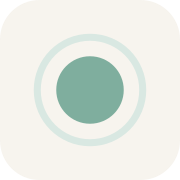
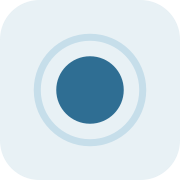
Re-skin to the calm ocean palette
- Replace warm sea-glass theme with deep, restful ocean blues; avoid
  vivid/tropical tones
- Update design tokens (bg, surface, ink, accent, accent-soft, sand) and
  add a deep token for prominent/safety actions
- Recolour the breathing orb to soft blues/teals (no neon)
- "I need to breathe" / destructive buttons use deep ocean for prominence
- Update PWA theme/background colours, favicon, and placeholder icons

https://claude.ai/code/session_011jvadMerUasgwyJpMx6raw

Changed region(s): [[0.3056, 0.3056, 0.6944, 0.6944]]

diff --git a/src/components/BreathingCircle.tsx b/src/components/BreathingCircle.tsx
@@ -36,14 +36,15 @@ const STROKE = 3;
 const RADIUS = (SIZE - STROKE) / 2;
 const CIRCUMFERENCE = 2 * Math.PI * RADIUS;
 
+// Calm ocean iridescence — soft, desaturated blues and teals (no neon/tropical).
 const HOLO_CONIC =
-  'conic-gradient(from 0deg at 50% 50%, #8be0e6, #7cc0f7, #b9a7f0, #f4a9da, #f7efaa, #9ef0c4, #8be0e6)';
+  'conic-gradient(from 0deg at 50% 50%, #9ed2e6, #7ec8e3, #5fb2c4, #5f93b8, #8bb3d0, #b9d7e6, #9ed2e6)';
 
 const HOLO_BLOBS =
-  'radial-gradient(42% 42% at 28% 30%, #f4a9da 0%, transparent 70%),' +
-  'radial-gradient(46% 46% at 72% 34%, #7cc0f7 0%, transparent 70%),' +
-  'radial-gradient(46% 46% at 56% 78%, #9ef0c4 0%, transparent 70%),' +
-  'radial-gradient(40% 40% at 34% 70%, #b9a7f0 0%, transparent 70%)';
+  'radial-gradient(42% 42% at 28% 30%, #7ec8e3 0%, transparent 70%),' +
+  'radial-gradient(46% 46% at 72% 34%, #5f93b8 0%, transparent 70%),' +
+  'radial-gradient(46% 46% at 56% 78%, #79c4cf 0%, transparent 70%),' +
+  'radial-gradient(40% 40% at 34% 70%, #9fb9d4 0%, transparent 70%)';
 
 export function BreathingCircle({
   phase,
@@ -88,7 +89,7 @@ export function BreathingCircle({
             width: SIZE,
             height: SIZE,
             background:
-              'radial-gradient(circle, rgba(140,220,225,0.55) 0%, rgba(180,170,240,0.28) 45%, rgba(180,170,240,0) 70%)',
+              'radial-gradient(circle, rgba(126,200,227,0.5) 0%, rgba(95,147,184,0.24) 45%, rgba(95,147,184,0) 70%)',
             filter: 'blur(28px)',
           }}
         />
@@ -100,7 +101,7 @@ export function BreathingCircle({
             width: ORB,
             height: ORB,
             boxShadow:
-              'inset 0 0 26px 6px rgba(255,255,255,0.55), inset 0 -12px 34px rgba(120,160,200,0.22), 0 26px 60px -18px rgba(120,150,170,0.55)',
+              'inset 0 0 26px 6px rgba(255,255,255,0.55), inset 0 -12px 34px rgba(70,110,150,0.22), 0 26px 60px -18px rgba(60,100,140,0.5)',
           }}
         >
           {/* Slowly swirling holographic gradient */}
@@ -141,7 +142,7 @@ export function BreathingCircle({
           cy={SIZE / 2}
           r={RADIUS}
           fill="none"
-          stroke="rgba(127,174,158,0.16)"
+          stroke="rgba(47,110,147,0.16)"
           strokeWidth={STROKE}
         />
         <circle

diff --git a/src/index.css b/src/index.css
@@ -3,15 +3,15 @@
 @tailwind utilities;
 
 :root {
-  /* Calm, meditation-like palette */
-  --color-bg: #f7f4ee; /* warm off-white */
-  --color-surface: #fffdf9; /* slightly lighter card surface */
-  --color-ink: #33485a; /* deep blue-grey text */
-  --color-ink-soft: #6b7a87; /* muted secondary text */
-  --color-accent: #7fae9e; /* muted sea-glass */
-  --color-accent-soft: #d9e8e2; /* pale sea-glass */
-  --color-sand: #e7dcc6; /* soft sand secondary */
-  --color-warn: #c08457; /* gentle terracotta, never alarming red */
+  /* Calm ocean palette — deep, restful blues; no vivid/tropical tones */
+  --color-bg: #e8f1f5; /* cool, soft off-white */
+  --color-surface: #ffffff; /* crisp card surface */
+  --color-ink: #0a1f3d; /* deep ocean navy text */
+  --color-ink-soft: #587490; /* muted slate-blue secondary text */
+  --color-accent: #2f6e93; /* calm ocean blue */
+  --color-accent-soft: #c6deea; /* pale ocean blue */
+  --color-sand: #d6e2ea; /* soft blue-grey for gentle surfaces */
+  --color-deep: #16425b; /* deep ocean — prominent / safety actions */
 }
 
 html,

diff --git a/vite.config.ts b/vite.config.ts
@@ -17,8 +17,8 @@ export default defineConfig(({ command }) => ({
         short_name: 'Slack Water',
         description:
           'Calm, dry-land breath-awareness practice for beginner freedivers.',
-        theme_color: '#33485a',
-        background_color: '#f7f4ee',
+        theme_color: '#0a1f3d',
+        background_color: '#e8f1f5',
         display: 'standalone',
         orientation: 'portrait',
         // Relative so it resolves correctly under the GitHub Pages subpath.

diff --git a/index.html b/index.html
@@ -7,7 +7,7 @@
       name="viewport"
       content="width=device-width, initial-scale=1.0, viewport-fit=cover, maximum-scale=1.0, user-scalable=no"
     />
-    <meta name="theme-color" content="#f7f4ee" />
+    <meta name="theme-color" content="#e8f1f5" />
     <meta name="apple-mobile-web-app-capable" content="yes" />
     <meta name="apple-mobile-web-app-status-bar-style" content="default" />
     <meta name="apple-mobile-web-app-title" content="Slack Water" />

diff --git a/src/components/Button.tsx b/src/components/Button.tsx
@@ -13,7 +13,7 @@ const VARIANT_CLASSES: Record<Variant, string> = {
   secondary:
     'bg-accent-soft text-ink active:scale-[0.98] hover:brightness-[0.98]',
   ghost: 'bg-transparent text-ink-soft hover:text-ink',
-  warn: 'bg-sand text-ink active:scale-[0.98] hover:brightness-[0.98]',
+  warn: 'bg-deep text-white active:scale-[0.98] hover:brightness-110',
 };
 
 export function Button({

diff --git a/tailwind.config.js b/tailwind.config.js
@@ -11,7 +11,7 @@ export default {
         accent: 'var(--color-accent)',
         'accent-soft': 'var(--color-accent-soft)',
         sand: 'var(--color-sand)',
-        warn: 'var(--color-warn)',
+        deep: 'var(--color-deep)',
       },
       fontFamily: {
         sans: [
